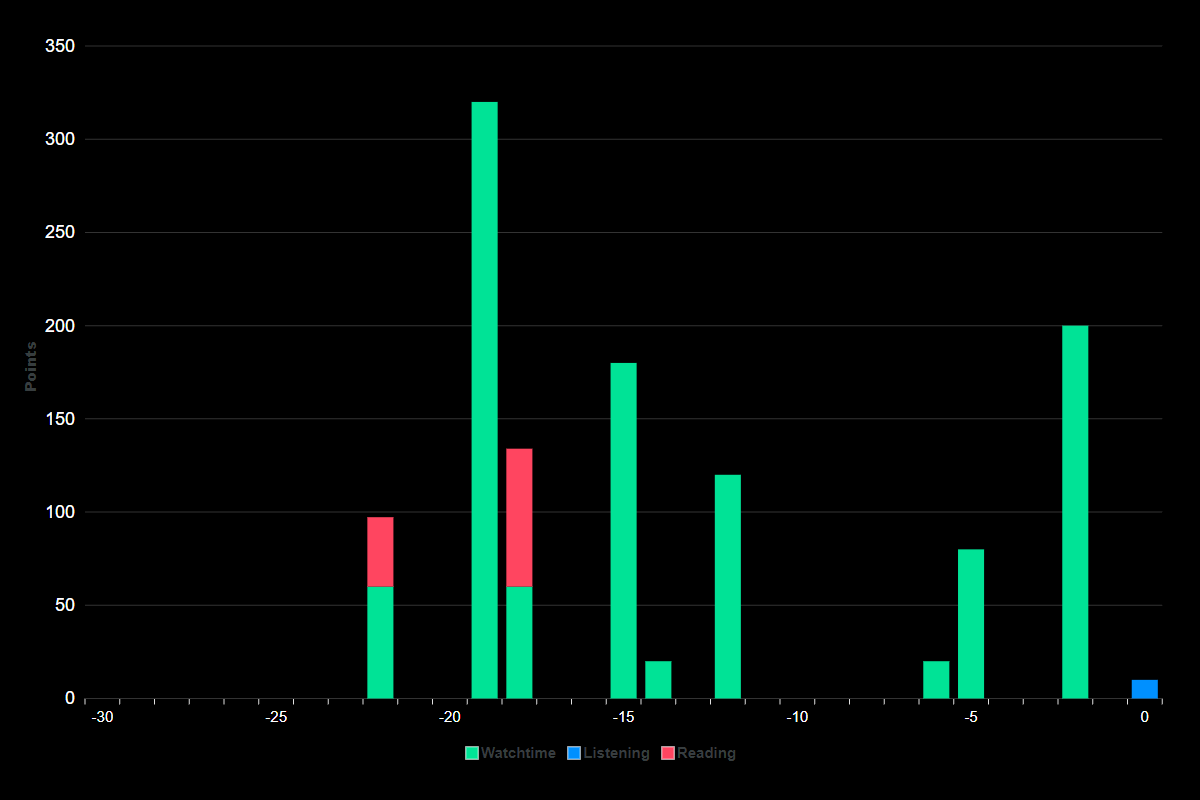
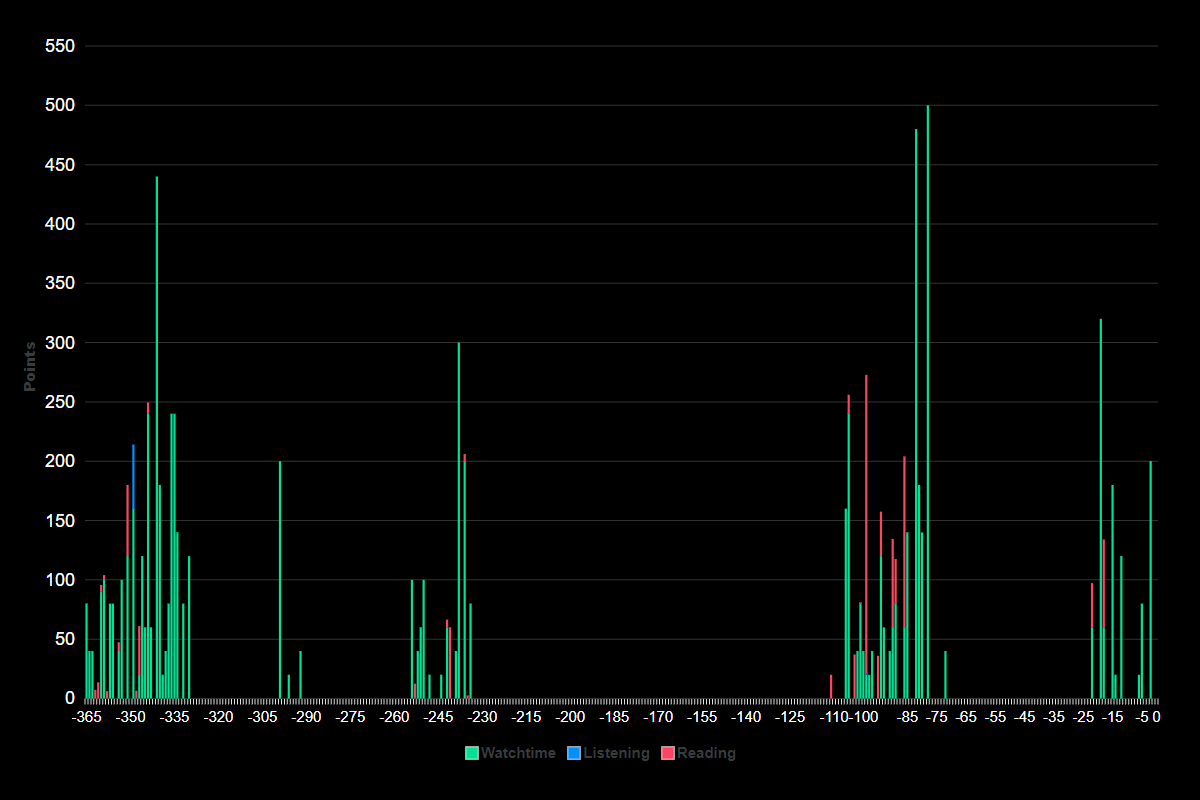
profile command updated with chart for time period specified

diff --git a/commands/global/profile.js b/commands/global/profile.js
@@ -1,18 +1,37 @@
-const { SlashCommandBuilder, EmbedBuilder } = require('discord.js');
+const { SlashCommandBuilder, EmbedBuilder, AttachmentBuilder } = require('discord.js');
 const mongoose = require('mongoose');
 const User = require("../../models/User");
 const Log = require("../../models/Log");
 const { testingServerId } = require('../../config.json');
-const { calculateStreak } = require('../../utils/streakCalculator');
+const { calculateStreak } = require('../../utils/streakCalculator'); // Import streak utility
+const { getLogsByDate } = require('../../utils/db/dbLogsByDate');
+const { buildImage } = require('../../utils/buildImage');
+
 
 module.exports = {
     data: new SlashCommandBuilder()
         .setName('profile')
-        .setDescription('Replies with your immersion info!'),
+        .setDescription('Replies with your immersion info!')
+        .addStringOption(option =>
+            option.setName('period')
+                .setDescription('Time period of the leaderboard')
+                .setRequired(true)
+                .addChoices(
+                    { name: 'All Time', value: '600' },
+                    { name: 'Yearly', value: '365'},
+                    { name: 'Monthly', value: '30'},
+                    { name: 'Weekly', value: '7' },
+                    )),
     async execute(interaction) {
+        await interaction.deferReply();
         const userId = interaction.user.id;
         const guildId = interaction.guild.id;
+        const timePeriod = interaction.options.getString('period');
         const exists = await User.exists({ userId: userId });
+        const days = timePeriod;
+        const userData = await User.findOne({ userId: interaction.user.id });
+        const userTimezone = userData ? userData.timezone : 'UTC';
+        const logsByDate = await getLogsByDate(userId, days, userTimezone);
 
         let logStats = [];
         let totalPoints = 0;
@@ -32,7 +51,7 @@ module.exports = {
         if (exists) {
             // Calculate the streak dynamically based on logs
             streak = await calculateStreak(userId, guildId);
-            
+
             // Update the user's streak in the database
             await User.updateOne({ userId }, { streak });
 
@@ -53,8 +72,7 @@ module.exports = {
                 { $group: { _id: { medium: "$medium", user: "$userId" }, total: { $sum: "$amount" }, units: { $push: "$unit" } } }
             ]);
         }
-        
-        // Audio
+
         const fieldOrder = {
             // Audio
             Listening: "Minutes",
@@ -89,6 +107,7 @@ module.exports = {
             }
         });
 
+
         // Reply
         if (exists) {
             // Embed response:
@@ -100,6 +119,7 @@ module.exports = {
                 .setTitle(`${interaction.user.displayName}'s Immersion Profile`)
                 .setThumbnail(userAvatarURL)
                 .setTimestamp()
+                .setImage('attachment://image.png')
                 .setFooter({ text: 'Keep up the great work!', iconURL: userAvatarURL });
 
             // Add total points field
@@ -127,9 +147,22 @@ module.exports = {
             }
             
             // Send embed
-            await interaction.reply({ embeds: [profileEmbed] });
+            await interaction.editReply({ embeds: [profileEmbed] });
+
+            // Create chart for profile
+            const image = await buildImage("immersionTime", { data: logsByDate });
+            // Assuming `image` is your Uint8Array
+            const buffer = Buffer.from(image);
+            // Create an attachment from the buffer
+            const attachment = new AttachmentBuilder(buffer,
+                {
+                    name: 'image.png'
+                } );
+
+            await interaction.editReply({ files: [attachment] });
+
         } else {
-            await interaction.reply({ content: 'User not found 😞', ephemeral: true });
+            await interaction.editReply({ content: 'User not found 😞', ephemeral: true });
         }
     },
 };

diff --git a/commands/dev/profileDev.js b/commands/dev/profileDev.js
@@ -1,9 +1,12 @@
-const { SlashCommandBuilder, EmbedBuilder } = require('discord.js');
+const { SlashCommandBuilder, EmbedBuilder, AttachmentBuilder } = require('discord.js');
 const mongoose = require('mongoose');
 const User = require("../../models/User");
 const Log = require("../../models/Log");
 const { testingServerId } = require('../../config.json');
 const { calculateStreak } = require('../../utils/streakCalculator'); // Import streak utility
+const { getLogsByDate } = require('../../utils/db/dbLogsByDate');
+const { buildImage } = require('../../utils/buildImage');
+
 
 module.exports = {
     data: new SlashCommandBuilder()
@@ -14,19 +17,21 @@ module.exports = {
                 .setDescription('Time period of the leaderboard')
                 .setRequired(true)
                 .addChoices(
-                    { name: 'All Time', value: 'All Time' },
-                    { name: 'Yearly', value: 'Yearly'},
-                    { name: 'Monthly', value: 'Monthly'},
-                    { name: 'Weekly', value: 'Weekly' },
-                    { name: 'Daily', value: 'Daily' },
+                    { name: 'All Time', value: '600' },
+                    { name: 'Yearly', value: '365'},
+                    { name: 'Monthly', value: '30'},
+                    { name: 'Weekly', value: '7' },
                     )),
     async execute(interaction) {
+        await interaction.deferReply();
         const userId = interaction.user.id;
         const guildId = interaction.guild.id;
         const timePeriod = interaction.options.getString('period');
         const exists = await User.exists({ userId: userId });
+        const days = timePeriod;
+        const userData = await User.findOne({ userId: interaction.user.id });
         const userTimezone = userData ? userData.timezone : 'UTC';
-        const pointsByDate = await immersionByDate(userId, days, userTimezone);
+        const logsByDate = await getLogsByDate(userId, days, userTimezone);
 
         let logStats = [];
         let totalPoints = 0;
@@ -102,6 +107,7 @@ module.exports = {
             }
         });
 
+
         // Reply
         if (exists) {
             // Embed response:
@@ -113,6 +119,7 @@ module.exports = {
                 .setTitle(`${interaction.user.displayName}'s Immersion Profile`)
                 .setThumbnail(userAvatarURL)
                 .setTimestamp()
+                .setImage('attachment://image.png')
                 .setFooter({ text: 'Keep up the great work!', iconURL: userAvatarURL });
 
             // Add total points field
@@ -140,9 +147,22 @@ module.exports = {
             }
             
             // Send embed
-            await interaction.reply({ embeds: [profileEmbed] });
+            await interaction.editReply({ embeds: [profileEmbed] });
+
+            // Create chart for profile
+            const image = await buildImage("immersionTime", { data: logsByDate });
+            // Assuming `image` is your Uint8Array
+            const buffer = Buffer.from(image);
+            // Create an attachment from the buffer
+            const attachment = new AttachmentBuilder(buffer,
+                {
+                    name: 'image.png'
+                } );
+
+            await interaction.editReply({ files: [attachment] });
+
         } else {
-            await interaction.reply({ content: 'User not found 😞', ephemeral: true });
+            await interaction.editReply({ content: 'User not found 😞', ephemeral: true });
         }
     },
 };

diff --git a/commands/dev/graphDev.js b/commands/dev/graphDev.js
@@ -7,6 +7,7 @@ const fs = require('node:fs');
 const { Buffer } = require('buffer');
 const { getLogsByDate } = require('../../utils/db/dbLogsByDate');
 const User = require('../../models/User');
+const { buildImage } = require('../../utils/buildImage');
 
 
 module.exports = {
@@ -41,40 +42,3 @@ module.exports = {
 };
 
 
-async function buildImage(route, data){
-    const browser = await puppeteer.launch({
-    headless: true,
-    devtools: true,
-    args: [
-        '--disable-web-security',
-        '--disable-features=IsolateOrigins',
-        '--disable-site-isolation-trials'
-    ]
-    });
-    const page = await browser.newPage();
-    page.setViewport({
-    width: 1500,
-    height: 1000
-    })    
-
-    await page.goto(`file:${path.join(__dirname, "..", "..", "utils", "hori-visuals", "prod", "index.html")}`);
-
-    await page.evaluate((route, data) => {
-        window.path = route;
-        window.puppeteerData = data; 
-    }, route, data);    
-
-    await page.waitForNetworkIdle();
-
-    const image = await page.screenshot({
-    type: "png",
-    path: "./image.png",
-    clip: {
-        width: 1200,
-        height: 800,
-        x : 0,
-        y : 0
-    }});    
-    await browser.close();
-    return image;
-}

diff --git a/utils/buildImage.js b/utils/buildImage.js
@@ -1,0 +1,42 @@
+const path = require('node:path');
+const puppeteer = require("puppeteer");
+
+const buildImage = async (route, data) => {
+    const browser = await puppeteer.launch({
+    headless: true,
+    devtools: true,
+    args: [
+        '--disable-web-security',
+        '--disable-features=IsolateOrigins',
+        '--disable-site-isolation-trials'
+    ]
+    });
+    const page = await browser.newPage();
+    page.setViewport({
+    width: 1500,
+    height: 1000
+    })    
+
+    await page.goto(`file:${path.join(__dirname, "hori-visuals", "prod", "index.html")}`);
+
+    await page.evaluate((route, data) => {
+        window.path = route;
+        window.puppeteerData = data; 
+    }, route, data);    
+
+    await page.waitForNetworkIdle();
+
+    const image = await page.screenshot({
+    type: "png",
+    path: "./image.png",
+    clip: {
+        width: 1200,
+        height: 800,
+        x : 0,
+        y : 0
+    }});    
+    await browser.close();
+    return image;
+}
+
+module.exports = { buildImage };
